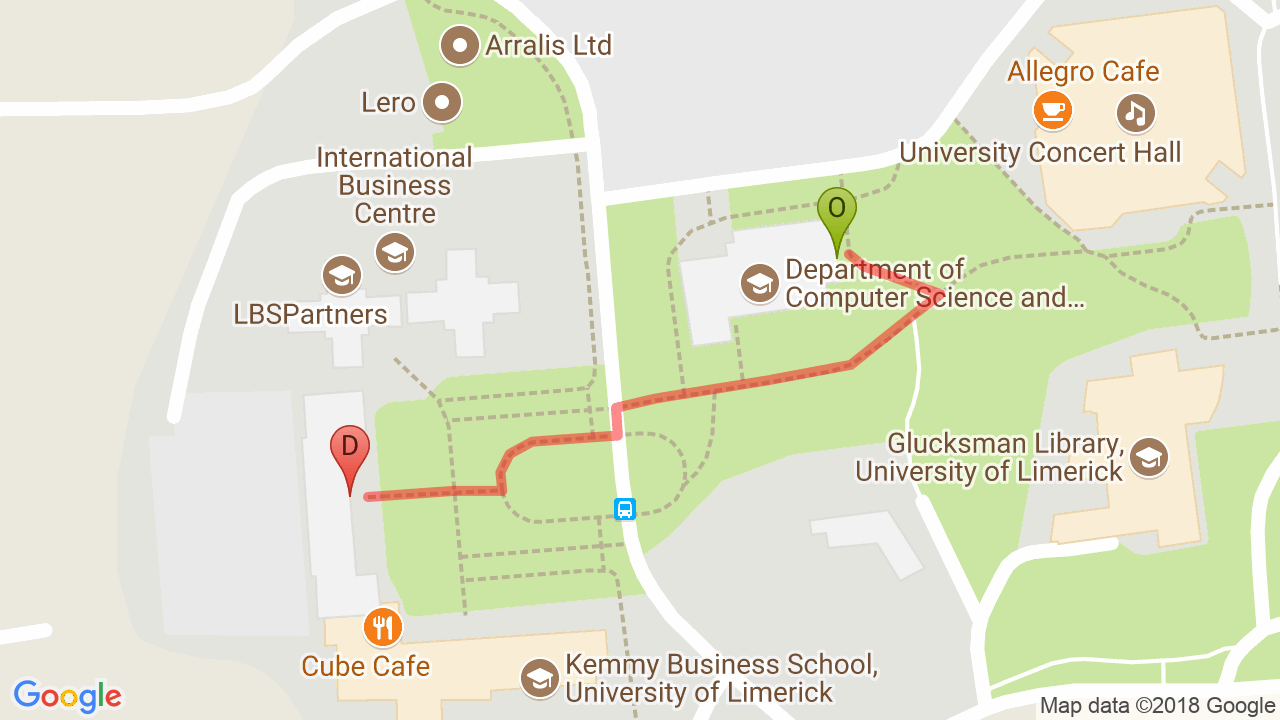
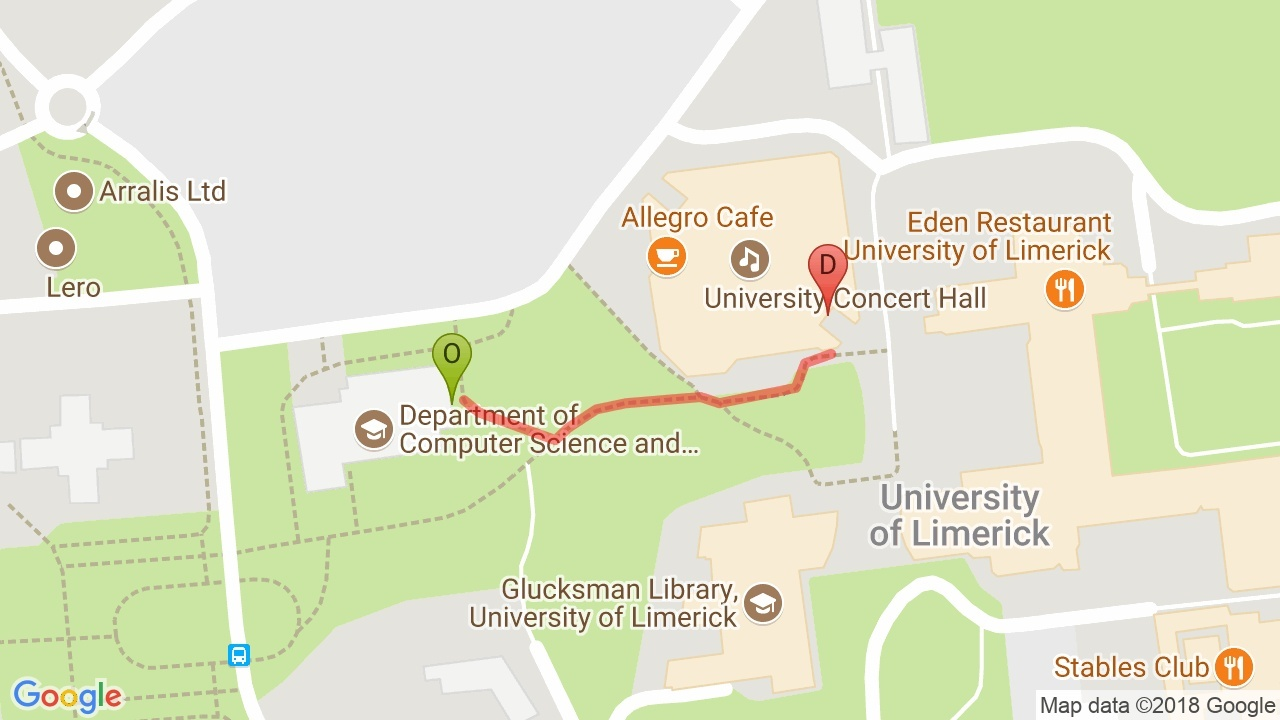
GUI using Flask calls

diff --git a/pi-assistant/pi-side/app.py b/pi-assistant/pi-side/app.py
@@ -11,15 +11,9 @@ import cv2
 import threading
 import numpy as np
 
-from scrape_timetable_website import Timetable_Class
-import scrape_timetable_website
-from draw_map import locations
-import draw_map
-
 port = 5000
-route = "recognise_me"
 ip = "192.168.1.105"
-server_url = "http://{}:{}/{}".format(ip, port, route)
+server_url = "http://{}:{}".format(ip, port)
 
 class FullScreenApp(object):
 	def __init__(self, master, **kwargs):
@@ -29,12 +23,10 @@ class FullScreenApp(object):
 		self.screen_height = master.winfo_screenheight()
 		self.frames = {}
 		self.gif_frames = [tk.PhotoImage(file="loading_icon.gif", format="gif -index {}".format(i)) for i in range(14)]
-		self.response = None
-		self.resp_received_flag = tk.BooleanVar()
-		self.next_class = Timetable_Class(code="CS4618", init_hour="00:00", end_hour="00:00", type="", location="CSG027", weeks="Wks:1-13", group=None)
-		self.student_name = tk.StringVar()
-
-		self.student_name.set("No student")
+		self.next_class = None
+		self.student_id = "00000000"
+		self.resp_received = tk.StringVar()
+		self.resp_received.set("none")
 
 		#master.geometry("{}x{}+0+0".format(self.screen_width, self.screen_height))
 		#master.geometry("{}x{}+0+0".format(800,300))
@@ -70,10 +62,10 @@ class FullScreenApp(object):
 
 		#### CONNECTING WITH SERVER ####
 
-		self.frames["connecting_with_server"] = tk.Frame(container, bg=self.bg_color, width=self.screen_width, 
+		self.frames["loading"] = tk.Frame(container, bg=self.bg_color, width=self.screen_width, 
 			height=self.screen_height)
-		self.frames["connecting_with_server"].grid(row=0, column=0, sticky="nsew")
-		self.create_conn_with_server_frame()		
+		self.frames["loading"].grid(row=0, column=0, sticky="nsew")
+		self.create_loading_frame()		
 
 		#1. Comment the 37th and 38th line of your code
 		#2. add self.videoLoop() just after the former 38th line
@@ -159,10 +151,10 @@ class FullScreenApp(object):
 		#	cursor="hand1", padding="0 15 0 15", command=lambda: self.show_frame("preview"))
 		cancel_bt.grid(row=0, column=3, sticky="W")
 
-	def create_conn_with_server_frame(self):
+	def create_loading_frame(self):
 		label_font = tkinter.font.Font(family="Helvetica", size=13)
 
-		centered_canvas = tk.Canvas(self.frames["connecting_with_server"], bg=self.bg_color, 
+		centered_canvas = tk.Canvas(self.frames["loading"], bg=self.bg_color, 
 			highlightthickness=0)
 		centered_canvas.place(relx=0.5, rely=0.5, anchor=tk.CENTER, width=self.screen_width)
 		centered_canvas.pack(expand=False)
@@ -171,9 +163,9 @@ class FullScreenApp(object):
 			padding="0 120 0 40")
 		gif_label.grid(row=0, column=0, sticky="N")
 
-		loading_conn_label = ttk.Label(centered_canvas, background=self.bg_color, font=label_font,
-			text="I'm recognising your face...", padding="0 0 0 10")
-		loading_conn_label.grid(row=1, column=0, sticky="N")
+		loading_state_label = ttk.Label(centered_canvas, background=self.bg_color, font=label_font,
+			text="", padding="0 0 0 10")
+		loading_state_label.grid(row=1, column=0, sticky="N")
 		
 		loading_wait_label = ttk.Label(centered_canvas, background=self.bg_color, font=label_font,
 			text="Please, wait.", padding="0 0 0 40")
@@ -183,8 +175,8 @@ class FullScreenApp(object):
 			text="")
 		hello_user.grid(row=3, column=0, sticky="N")
 
-		self.update_label(loading_conn_label, 0)
-		self.update_gif(gif_label, 0)
+		self.update_label(loading_state_label, loading_wait_label)
+		self.update_gif(gif_label)
 
 	def create_welcome_student_frame(self):
 
@@ -196,24 +188,33 @@ class FullScreenApp(object):
 		centered_canvas.pack(expand=False)
 
 		welcome_label = ttk.Label(centered_canvas, font=title_font, background=self.bg_color,
-			text=self.student_name.get(), wraplength=1200, justify="center", padding="20 150 20 20")
+			text="Welcome {}!", wraplength=1200, justify="center", padding="20 150 20 20")
 		welcome_label.grid(row=0, column=0, sticky="N")
 
 		next_class_name_label = ttk.Label(centered_canvas, font=text_font, background=self.bg_color,
-			text="Your next class is {}: {}".format(self.next_class.code, self.next_class.name), padding="20 100 20 20")
+			text="Your next class is {}: {}", padding="20 100 20 20")
 		next_class_name_label.grid(row=1, column=0, sticky="N")
 
 		next_class_type_label = ttk.Label(centered_canvas, font=text_font, background=self.bg_color,
-			text="Type: {}".format(self.next_class.type), padding="15")
+			text="Type: {}", padding="15")
 		next_class_type_label.grid(row=2, column=0, sticky="N")
 
 		next_class_location_label = ttk.Label(centered_canvas, font=text_font, background=self.bg_color,
-			text="Location: {}".format(self.next_class.location), padding="20 20 20 80")
+			text="Location: {}", padding="20 20 20 80")
 		next_class_location_label.grid(row=3, column=0, sticky="N")
 
 		show_map_bt = ttk.Button(centered_canvas, text="Show route to the class", width=100, 
 			cursor="hand1", padding="0 15 0 15", command=lambda: self.show_frame("show_map"))
 		show_map_bt.grid(row=4, column=0, sticky="N")
+
+		self.welcome_frame = {
+			"welcome_label": welcome_label,	
+			"next_class_labels": {
+				"name": next_class_name_label,
+				"type": next_class_type_label,
+				"location": next_class_location_label
+			}
+		}
 
 	def create_show_map_frame(self):
 		title_font = tkinter.font.Font(family="Helvetica", size=25, weight="bold")
@@ -222,21 +223,19 @@ class FullScreenApp(object):
 		centered_canvas.place(relx=0.5, rely=0.5, anchor=tk.CENTER, width=self.screen_width)
 		centered_canvas.pack(expand=False)
 
-		welcome_label = ttk.Label(centered_canvas, font=title_font, background=self.bg_color,
-			text="Your next class is {}: {}".format(self.next_class.code, self.next_class.name), wraplength=1150, justify="center", padding="20 60 20 20")
-		welcome_label.grid(row=0, column=0, sticky="N")
+		your_class = ttk.Label(centered_canvas, font=title_font, background=self.bg_color,
+			text="Your next class is {}: {}", wraplength=1150, justify="center", padding="20 60 20 20")
+		your_class.grid(row=0, column=0, sticky="N")
 
-		draw_map.save_map_image("map.jpg", origin=locations["Computer Science Building"], destination=locations["Schuman Building"])
-
-		img = cv2.imread("map.jpg")
+		img = cv2.imread("placeholder.jpg")
 		img = cv2.resize(img, (940, 540))
 		img = cv2.cvtColor(img, cv2.COLOR_BGR2RGB)
 		img = ImageTk.PhotoImage(Image.fromarray(img))
 
-		img_label = ttk.Label(centered_canvas, image=img, background=self.bg_color,
+		self.map_img_label = ttk.Label(centered_canvas, image=img, background=self.bg_color,
 			padding="0 50 0 0")
-		img_label.image = img
-		img_label.grid(row=1, column=0, sticky="N")
+		self.map_img_label.image = img
+		self.map_img_label.grid(row=1, column=0, sticky="N")
 
 
 	#### HELPER FUNCTIONS ####
@@ -247,48 +246,100 @@ class FullScreenApp(object):
 	def exit_app(self, event):
 		self.master.quit()
 
-	def send_img(self):
+	def refresh_welcome_frame(self):
+		self.welcome_frame["welcome_label"]["text"] = \
+			"Welcome {}!".format(self.student_name)
+		self.welcome_frame["next_class_labels"]["name"]["text"] = \
+			"Your next class is {}: {}".format(self.next_class["code"], self.next_class["name"])
+		self.welcome_frame["next_class_labels"]["type"]["text"] = \
+			"Type {}".format(self.next_class["type"])
+		self.welcome_frame["next_class_labels"]["location"]["text"] = \
+			"Location: {}".format(self.next_class["location"])	
+
+	def refresh_map_frame(self):
+		pass	
+		
+	def recognise_student(self):
 		img = cv2.imread("face.jpg")
 		_, img_encoded = cv2.imencode(".jpg", img)
 		img_as_text = base64.b64encode(img_encoded).decode("ascii")
 
-		#data = {"image": str(img_as_text)[2:-1]}
 		data = {"image": img_as_text}
 	
 		try:
-			self.response = requests.post(server_url, json=data)
+			r = requests.post(server_url + "/recognise_me", json=data)
+
+			self.student_id = json.loads(r.text)["student_id"]
+			self.student_name = json.loads(r.text)["student_name"]
+			
+			self.resp_received.set("recognition")
+
 		except requests.exceptions.RequestException:
-			self.response = -1
 			print("ERROR - Connection error")
 			self.master.quit()
 
-		s = json.loads(self.response.text)["student_name"]
-		print(s)
-		self.student_name.set(s)
+	def get_student_class(self):
+		data = {
+			"student_id": self.student_id
+		}
 
+		try:
+			r = requests.post(server_url + "/next_class", json=data)
+
+			self.next_class = json.loads(json.loads(r.text)["next_class"])
+			
+			self.resp_received.set("next_class")
+
+		except requests.exceptions.RequestException:
+			print("ERROR - Connection error")
+			self.master.quit()
+
+	def get_map(self):
+		data = {
+			"destination_building": "Foundation Building"
+		}
+
+		try:
+			r = requests.post(server_url + "/map", json=data)
+
+			map_img_as_text = json.loads(r.text)["map_img"]
+			map_img_bytes = base64.b64decode(map_img_as_text)
+			map_img_np_array = np.fromstring(map_img_bytes, np.uint8)
+			map_img_cv2_bgr = cv2.imdecode(map_img_np_array, cv2.IMREAD_COLOR)
+			
+			map_img_cv2_bgr = cv2.resize(map_img_cv2_bgr, (940, 540))
+
+			map_img_cv2_rgb = cv2.cvtColor(map_img_cv2_bgr, cv2.COLOR_BGR2RGB)
+			map_img = ImageTk.PhotoImage(Image.fromarray(map_img_cv2_rgb))
+
+			self.map_img_label["image"] = map_img
+			self.map_img_label.image = map_img
+			
+			self.resp_received.set("map")
+
+		except requests.exceptions.RequestException:
+			print("ERROR - Connection error")
+			self.master.quit()
+	
 	def connect_with_server (self):
-		self.show_frame("connecting_with_server")
+		self.show_frame("loading")
 
-		# launch thread and wait for response
-		threading.Thread(target=self.send_img).start()
-		self.wait_for_response()
-		self.frames["connecting_with_server"].wait_variable(self.resp_received_flag)
+		# get student id
+		threading.Thread(target=self.recognise_student).start()
+		self.frames["loading"].wait_variable(self.resp_received)
+
+		# get student next class
+		threading.Thread(target=self.get_student_class).start()
+		self.frames["loading"].wait_variable(self.resp_received)
+
+		self.refresh_welcome_frame()
+
+		threading.Thread(target=self.get_map).start()
+		self.frames["loading"].wait_variable(self.resp_received)
 
 		self.show_frame("welcome_student")
 
-	def get_student_data(self):
-		# name and ID from self.response
-		pass
-	
-	def wait_for_response(self):
-		if self.response == None:
-			self.master.after(1000, self.wait_for_response)
-			#print("not yet")
-		else:
-			self.resp_received_flag.set(True)
-			#print("received")
-
-	def update_gif(self, label, index):
+	def update_gif(self, label, index=0):
 		if index == len(self.gif_frames):
 			index = 0
 
@@ -297,20 +348,30 @@ class FullScreenApp(object):
 		label.configure(image=frame)
 		self.master.after(35, self.update_gif, label, index)
 
-	def update_label(self, label, index):
+	def update_label(self, label_status, label_wait, index=0):
+		text = ""
+		if self.resp_received.get() == "none":
+			text = "Recognising your face"
+		elif self.resp_received.get() == "recognition":
+			text = "Getting your next class"
+			label_wait["text"] = "Almost finished!"
+		elif self.resp_received.get() == "next_class":
+			text = "Drawing map"
+			#label_wait["text"] = "Please, wait."
+
 		if index == 0:
-			label.configure(text="I'm recognising your face")
+			label_status["text"] = text + ""
 		elif index == 1:
-			label.configure(text="I'm recognising your face.")
+			label_status["text"] = text + "."
 		elif index == 2:
-			label.configure(text="I'm recognising your face..")
+			label_status["text"] = text + ".."
 		else:
-			label.configure(text="I'm recognising your face...")
+			label_status["text"] = text + "..."
 			index = -1
 		
 		index += 1
 
-		self.master.after(500, self.update_label, label, index)
+		self.master.after(500, self.update_label, label_status, label_wait, index)
 		
 #### MAIN ####
 

diff --git a/pi-assistant/server-side/app/routes.py b/pi-assistant/server-side/app/routes.py
@@ -21,13 +21,13 @@ def index():
 def recognise_student():
 	img_filename = store_image(request=request)
 	
-	student_name = fr.recognise_face(img_filename)
+	student_id = fr.recognise_face(img_filename)
 
-	Student.query.filter_by(id=student_name).first()
+	student = Student.query.filter_by(id=student_id).first()
 
 	#time.sleep(1)
 
-	return jsonify({"student_name": student_name})
+	return jsonify({"student_id": student.id, "student_name": student.name})
 
 @app.route("/next_class", methods=["POST"])
 def whats_my_next_class():
@@ -37,14 +37,13 @@ def whats_my_next_class():
 	week_timetable = scrape_timetable.get_week_timetable("17226163")
 
 	# index representing day of the week (0-> Monday, 1->Tuesday...)
-	today = dt.date.today().weekday()
+	today = (dt.date.today() - dt.timedelta(2)).weekday()
 	now = dt.datetime.now()
 
 	# on sunday there are no classes
 	if today < 6: 
 		for mod in week_timetable[today]:
-			#print(mod)
-			if mod.hours[0] > now.hour:
+			if mod.hours[0] > now.hour - 18:
 				return jsonify({"next_class": mod.toJSON()})
 
 
